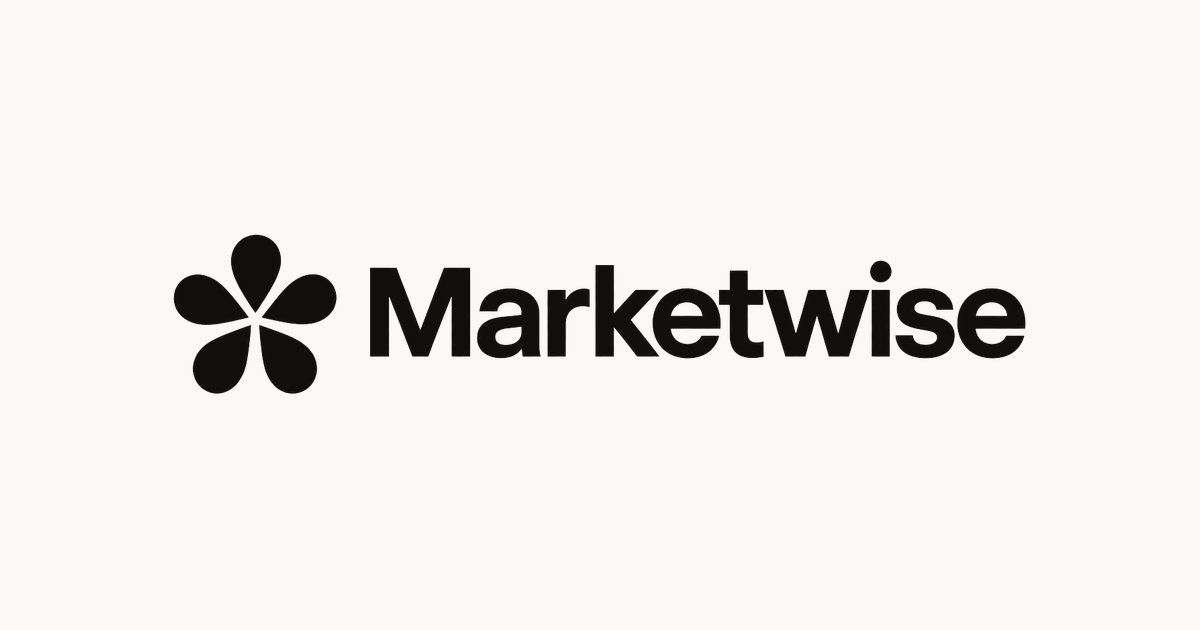
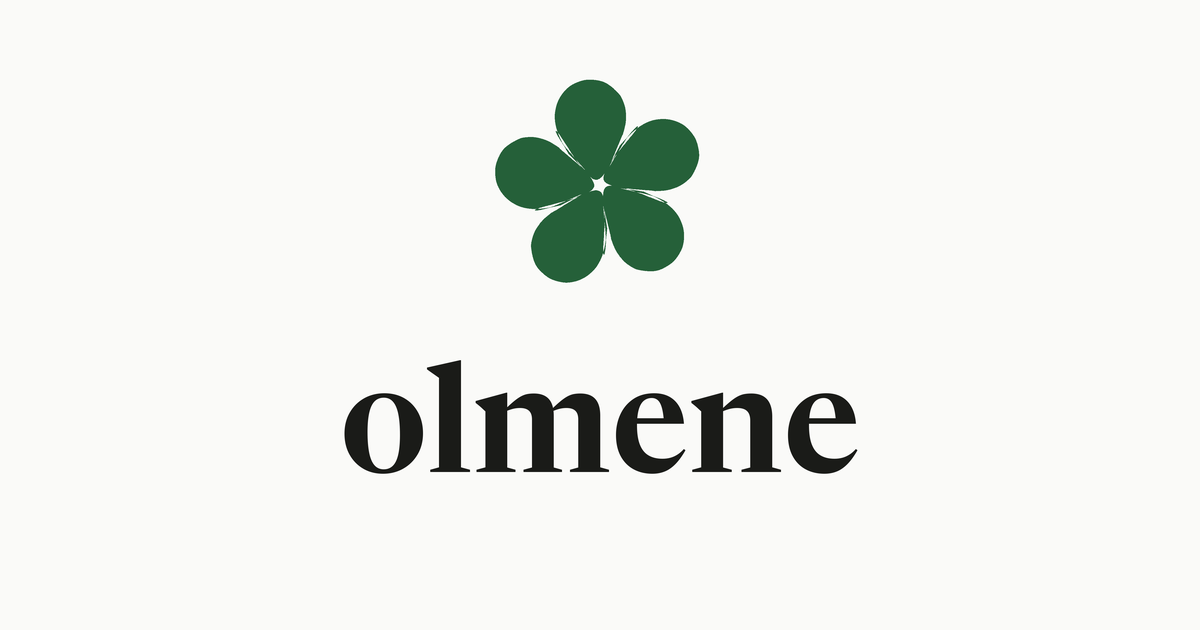
brand: elm-green identity, real proof strip, EUR pricing
- design tokens: Claude terracotta → deep elm green (light #256039 on oat
  7.1:1, dark leaf #69C27E 6.7:1 — both AA with margin); severity rust
  decoupled from brand accent so 'high severity' never reads as 'pass'
- logo: inline SVG five-petal mark + lowercase Newsreader wordmark —
  replaces the raster logo that still read 'Marketwise' on the live site;
  mark now themes with currentColor, zero image requests
- regenerated brand rasters via scripts/brand-assets.py (petal path →
  polygon, Newsreader VF): JSON-LD logo, OG card, favicons
- landing: proof strip with real production numbers (73 free diagnoses,
  198 cited sources, 18 checks, 15 languages) — i18n keys added to all
  15 dictionaries with exact order parity
- pricing: $ → € price labels via migration 20261001 (Polar charges EUR);
  verified live incl. per-report math

Changed region(s): [[0.2775, 0.1206, 0.8633, 0.754], [0.1233, 0.3619, 0.2775, 0.6333]]

diff --git a/src/app/globals.css b/src/app/globals.css
@@ -181,7 +181,7 @@
 
 /* ─────────────────────────────────────────────────────────────────────────
    Olmene design system — "Warm craft" (Claude-inspired)
-   Oat surfaces, terracotta accent, soft serif display, calm hierarchy.
+   Oat surfaces, deep elm-green accent, soft serif display, calm hierarchy.
    ───────────────────────────────────────────────────────────────────────── */
 
 :root {
@@ -195,10 +195,11 @@
   --popover: oklch(1 0 0);
   --popover-foreground: oklch(0.245 0.005 90);
 
-  /* Accent — Claude terracotta, deepened for WCAG AA: as text on oat 5.3:1,
-     with white text 5.6:1 (was #D97757 — 2.7:1). Dark mode keeps the lighter
-     terracotta for text/borders; buttons switch to ink-on-terracotta. */
-  --primary: oklch(0.53 0.125 45);           /* #A55026 rust terracotta */
+  /* Accent — deep elm green (olm, the elm tree the name comes from),
+     WCAG AA with margin: as text on oat 7.1:1, white text on it 7.4:1.
+     Dark mode keeps the lighter leaf green for text/borders; buttons
+     switch to ink-on-leaf (6.9:1). */
+  --primary: oklch(0.44 0.09 152);           /* #256039 deep elm */
   --primary-foreground: oklch(0.995 0.002 106);
 
   /* Secondary surfaces — oat-200 */
@@ -207,16 +208,16 @@
   --muted: oklch(0.943 0.006 100);
   --muted-foreground: oklch(0.516 0.006 90); /* #6E6D6A warm gray */
 
-  /* Hover tint — soft clay */
-  --accent: oklch(0.938 0.014 78);
-  --accent-foreground: oklch(0.40 0.07 50);
+  /* Hover tint — soft sage wash */
+  --accent: oklch(0.93 0.025 150);           /* #DDEDDF */
+  --accent-foreground: oklch(0.40 0.07 152);
 
   --destructive: oklch(0.577 0.199 25);
   --border: oklch(0.913 0.009 95);           /* #E6E3DA */
   --input: oklch(0.913 0.009 95);
-  --ring: oklch(0.53 0.125 45);
+  --ring: oklch(0.44 0.09 152);
 
-  --chart-1: oklch(0.53 0.125 45);          /* terracotta */
+  --chart-1: oklch(0.44 0.09 152);          /* elm */
   --chart-2: oklch(0.68 0.115 75);           /* ochre */
   --chart-3: oklch(0.55 0.095 150);          /* sage */
   --chart-4: oklch(0.45 0.02 90);            /* warm charcoal */
@@ -224,19 +225,21 @@
 
   --sidebar: oklch(0.943 0.006 100);
   --sidebar-foreground: oklch(0.245 0.005 90);
-  --sidebar-primary: oklch(0.53 0.125 45);
+  --sidebar-primary: oklch(0.44 0.09 152);
   --sidebar-primary-foreground: oklch(0.995 0.002 106);
   --sidebar-accent: oklch(0.913 0.012 90);
-  --sidebar-accent-foreground: oklch(0.30 0.05 50);
+  --sidebar-accent-foreground: oklch(0.30 0.06 152);
   --sidebar-border: oklch(0.913 0.009 95);
-  --sidebar-ring: oklch(0.699 0.127 45);
+  --sidebar-ring: oklch(0.74 0.13 150);
 
   /* Score semantics — warm family: sage / ochre / terracotta-red.
      Light-mode good/mid darkened to clear WCAG AA as text (4.8-5.3:1 on oat). */
   --score-good: oklch(0.52 0.09 150);
   --score-mid: oklch(0.53 0.1 75);
   --score-bad: oklch(0.56 0.16 30);
-  --fg-clay: oklch(0.50 0.12 45);
+  /* Severity-only rust — deliberately NOT the green brand accent, so a
+     "high severity" badge never reads as "pass". */
+  --fg-rust: oklch(0.50 0.12 45);
 }
 
 .dark {
@@ -247,9 +250,9 @@
   --popover: oklch(0.335 0.004 100);
   --popover-foreground: oklch(0.972 0.004 106);
 
-  --primary: oklch(0.699 0.127 45);
-  /* Ink-on-terracotta in dark mode: white on #D97757 is 3.1:1 — fails AA.
-     Warm near-black text on the terracotta button passes at 5.2:1. */
+  --primary: oklch(0.74 0.13 150);           /* #69C27E fresh leaf */
+  /* Ink-on-leaf in dark mode: white on the leaf green is only ~2.4:1 —
+     fails AA. Warm near-black text on the leaf button passes at 6.9:1. */
   --primary-foreground: oklch(0.245 0.005 90);
 
   --secondary: oklch(0.36 0.003 100);        /* #343432 */
@@ -257,15 +260,15 @@
   --muted: oklch(0.36 0.003 100);
   --muted-foreground: oklch(0.72 0.005 95);  /* #A3A29C */
 
-  --accent: oklch(0.40 0.04 55);
-  --accent-foreground: oklch(0.90 0.06 55);
+  --accent: oklch(0.38 0.05 150);
+  --accent-foreground: oklch(0.85 0.08 150);
 
   --destructive: oklch(0.704 0.191 22);
   --border: oklch(1 0 0 / 10%);
   --input: oklch(1 0 0 / 14%);
-  --ring: oklch(0.699 0.127 45);
+  --ring: oklch(0.74 0.13 150);
 
-  --chart-1: oklch(0.699 0.127 45);
+  --chart-1: oklch(0.74 0.13 150);
   --chart-2: oklch(0.82 0.10 80);
   --chart-3: oklch(0.76 0.10 148);
   --chart-4: oklch(0.62 0.01 90);
@@ -273,17 +276,17 @@
 
   --sidebar: oklch(0.25 0.003 95);           /* #1F1E1D */
   --sidebar-foreground: oklch(0.972 0.004 106);
-  --sidebar-primary: oklch(0.699 0.127 45);
+  --sidebar-primary: oklch(0.74 0.13 150);
   --sidebar-primary-foreground: oklch(0.245 0.005 90);
-  --sidebar-accent: oklch(0.40 0.04 55);
-  --sidebar-accent-foreground: oklch(0.90 0.06 55);
+  --sidebar-accent: oklch(0.38 0.05 150);
+  --sidebar-accent-foreground: oklch(0.85 0.08 150);
   --sidebar-border: oklch(1 0 0 / 10%);
-  --sidebar-ring: oklch(0.699 0.127 45);
+  --sidebar-ring: oklch(0.74 0.13 150);
 
   --score-good: oklch(0.76 0.10 148);
   --score-mid: oklch(0.82 0.10 80);
   --score-bad: oklch(0.72 0.15 30);
-  --fg-clay: oklch(0.85 0.10 45);
+  --fg-rust: oklch(0.85 0.10 45);
 }
 
 @layer base {
@@ -481,8 +484,8 @@
     color: var(--score-bad);
   }
   .sev-high {
-    background: color-mix(in oklab, var(--primary) 13%, var(--card));
-    color: var(--fg-clay);
+    background: color-mix(in oklab, oklch(0.50 0.12 45) 13%, var(--card));
+    color: var(--fg-rust);
   }
   .sev-medium {
     background: color-mix(in oklab, var(--score-mid) 15%, var(--card));
@@ -512,7 +515,7 @@
   }
   .status-running {
     background: color-mix(in oklab, var(--primary) 13%, var(--card));
-    color: var(--fg-clay);
+    color: var(--accent-foreground);
   }
   .status-completed {
     background: var(--score-good);

diff --git a/src/app/page.tsx b/src/app/page.tsx
@@ -26,6 +26,7 @@ import { Card, CardContent, CardDescription, CardHeader, CardTitle } from "@/com
 import { Accordion, AccordionContent, AccordionItem, AccordionTrigger } from "@/components/ui/accordion";
 import { SiteHeader } from "@/components/site-header";
 import { SiteFooter } from "@/components/site-footer";
+import { BrandMark } from "@/components/brand-mark";
 import { FreeAuditForm } from "@/components/free-audit-form";
 import { PricingTeaser } from "@/components/pricing-cards";
 import { DemoVideo } from "@/components/demo-video";
@@ -41,6 +42,17 @@ const TEARDOWN_BEFORE = {
   checksB: 18,
 };
 const TEARDOWN_AFTER = { readiness: 98, checksA: 18, checksB: 18 }; // measured 2026-09-25 after deploy (the teardown copy itself lifted conversion 90→94)
+
+// Proof strip — real, all-time numbers from the production database
+// (free_audits / reports row counts; 18 = the deterministic checklist the
+// free audit actually runs today, verified live 2026-10-01; 15 languages).
+// Refresh periodically (or wire to the DB) as usage grows; never inflate.
+const STATS = [
+  { value: "73", label: "stats.audits" },
+  { value: "198", label: "stats.sources" },
+  { value: "18", label: "stats.checks" },
+  { value: "15", label: "stats.languages" },
+] as const;
 
 export default function HomePage() {
   const { t } = useI18n();
@@ -118,6 +130,18 @@ export default function HomePage() {
             <div className="hero-in" style={{ animationDelay: "0.35s" }}>
               <PricingTeaser />
             </div>
+          </div>
+        </section>
+
+        {/* ── Proof strip: the instrument, in real numbers ── */}
+        <section aria-label={t("stats.label")} className="border-y border-border/60 bg-secondary/30">
+          <div className="mx-auto grid w-full max-w-6xl grid-cols-2 gap-y-8 px-4 py-10 sm:px-6 md:grid-cols-4 md:py-12">
+            {STATS.map((s) => (
+              <div key={s.label} className="text-center">
+                <p className="font-display text-4xl font-bold text-primary tabular-nums md:text-5xl">{s.value}</p>
+                <p className="mx-auto mt-2 max-w-[16ch] text-sm leading-snug text-muted-foreground">{t(s.label)}</p>
+              </div>
+            ))}
           </div>
         </section>
 
@@ -522,7 +546,7 @@ export default function HomePage() {
             <Reveal delay={0.12}>
               <div className="overflow-hidden rounded-xl border bg-card shadow-lg">
               <div className="flex items-center gap-2 border-b bg-secondary/40 px-4 py-2.5">
-                <img src="/img/logo-mark-42.webp" alt="Olmene" width={42} height={42} className="size-3.5" aria-hidden />
+                <BrandMark size={14} className="text-primary" />
                 <span className="font-mono text-xs text-muted-foreground">{t("rt.previewLabel")}</span>
               </div>
               <div className="space-y-4 p-6">

diff --git a/src/components/animated-flower.tsx b/src/components/animated-flower.tsx
@@ -11,11 +11,11 @@ import { cn } from "@/lib/utils";
  *   petal-bloom — each petal fans out ~9deg and eases back, phase-staggered
  *   flower-drift — the whole flower rotates once every ~30s
  *   logo-breathe — subtle scale swell on the container (shared brand pulse)
- *   logo-glow    — optional soft terracotta halo
+ *   logo-glow    — optional soft sage halo
  */
 
 /** One petal of the mark, traced from the official logo bitmap. */
-const PETAL_D =
+export const PETAL_D =
   "M-64.4 -63.9 C-67.3 -69.0 -77.2 -85.4 -81.4 -94.4 C-85.6 -103.5 -87.9 -110.7 -89.8 -118.1 C-91.7 -125.5 -92.6 -132.5 -92.8 -138.9 C-93.0 -145.2 -92.3 -150.4 -91.1 -156.2 C-89.9 -162.0 -88.2 -168.0 -85.6 -173.5 C-83.0 -179.1 -79.7 -184.6 -75.7 -189.6 C-71.6 -194.6 -66.8 -199.6 -61.2 -203.5 C-55.7 -207.3 -48.6 -210.5 -42.3 -212.7 C-36.0 -214.8 -30.9 -216.2 -23.7 -216.4 C-16.5 -216.6 -6.2 -215.7 0.9 -213.8 C8.0 -212.0 12.8 -209.5 18.9 -205.3 C25.0 -201.1 33.0 -193.7 37.5 -188.6 C42.1 -183.6 43.6 -180.7 46.1 -175.0 C48.6 -169.3 51.3 -162.1 52.4 -154.3 C53.5 -146.6 53.6 -137.2 52.7 -128.8 C51.8 -120.4 47.9 -108.3 46.9 -104.2 L46.9 -104.2 C37.7 -88.6 14.1 -10.1 -8.2 -10.7 C-30.4 -11.3 -75.3 -95.7 -86.5 -107.8 C-97.7 -119.8 -84.7 -95.8 -75.2 -82.8 C-65.7 -69.8 -31.4 -33.0 -29.6 -29.8 C-27.8 -26.7 -58.6 -58.2 -64.4 -63.9 Z";
 
 const PETALS = [0, 1, 2, 3, 4] as const;

diff --git a/src/components/logo.tsx b/src/components/logo.tsx
@@ -1,24 +1,22 @@
 import Link from "next/link";
 import { APP_NAME } from "@/lib/config";
+import { BrandMark } from "@/components/brand-mark";
 
 export function Logo({ className }: { className?: string }) {
   return (
     <Link
       href="/"
-      className={`flex items-center gap-2 ${className ?? ""}`}
+      className={`flex items-center gap-2 text-foreground ${className ?? ""}`}
       aria-label={`${APP_NAME} home`}
     >
-      {/* Full brand lockup — flower mark + Olmene wordmark.
-          Black on light; inverted to warm cream in dark mode.
-          480x96 WebP (9KB) serves the h-8 display up to 3x DPR — the old
-          1280x257 PNG was 68KB for the same 159x32 box. */}
-      <img
-        src="/img/logo-full-480.webp"
-        alt={APP_NAME}
-        width={480}
-        height={96}
-        className="h-8 w-auto dark:invert"
-      />
+      {/* Brand lockup — elm flower mark + lowercase serif wordmark.
+          Inline SVG + live text: crisp at any DPR, themes with the site,
+          no image request. The old 480x96 WebP (which still read
+          "Marketwise") only remains as the JSON-LD/OG asset. */}
+      <BrandMark size={26} className="text-primary" />
+      <span className="font-display text-[1.4rem] font-semibold leading-none tracking-tight">
+        olmene
+      </span>
     </Link>
   );
 }

diff --git a/src/components/brand-mark.tsx b/src/components/brand-mark.tsx
@@ -1,0 +1,27 @@
+import { PETAL_D } from "@/components/animated-flower";
+
+/**
+ * BrandMark — the static five-petal elm flower, no motion.
+ *
+ * Inline SVG (not a raster) so it stays crisp at any size, inherits
+ * `currentColor`, and costs zero image requests. Use `text-primary` /
+ * `text-foreground` on the element to color it.
+ */
+export function BrandMark({ size = 24, className }: { size?: number; className?: string }) {
+  return (
+    <svg
+      viewBox="-263 -263 526 526"
+      width={size}
+      height={size}
+      className={className}
+      aria-hidden
+      focusable="false"
+    >
+      {[0, 1, 2, 3, 4].map((k) => (
+        <g key={k} transform={`rotate(${k * 72})`}>
+          <path d={PETAL_D} fill="currentColor" />
+        </g>
+      ))}
+    </svg>
+  );
+}

diff --git a/scripts/brand-assets.py b/scripts/brand-assets.py
@@ -1,0 +1,109 @@
+#!/usr/bin/env python3
+"""Regenerate Olmene brand raster assets from the vector petal path.
+
+Outputs (all committed):
+  public/img/logo-full-480.webp   480x96 lockup (JSON-LD logo)
+  src/app/opengraph-image.png     1200x630 social card
+  src/app/icon.png                512x512 flower favicon
+  src/app/apple-icon.png          180x180 apple touch icon
+"""
+import math, re
+from PIL import Image, ImageDraw, ImageFont
+
+PETAL_D = "M-64.4 -63.9 C-67.3 -69.0 -77.2 -85.4 -81.4 -94.4 C-85.6 -103.5 -87.9 -110.7 -89.8 -118.1 C-91.7 -125.5 -92.6 -132.5 -92.8 -138.9 C-93.0 -145.2 -92.3 -150.4 -91.1 -156.2 C-89.9 -162.0 -88.2 -168.0 -85.6 -173.5 C-83.0 -179.1 -79.7 -184.6 -75.7 -189.6 C-71.6 -194.6 -66.8 -199.6 -61.2 -203.5 C-55.7 -207.3 -48.6 -210.5 -42.3 -212.7 C-36.0 -214.8 -30.9 -216.2 -23.7 -216.4 C-16.5 -216.6 -6.2 -215.7 0.9 -213.8 C8.0 -212.0 12.8 -209.5 18.9 -205.3 C25.0 -201.1 33.0 -193.7 37.5 -188.6 C42.1 -183.6 43.6 -180.7 46.1 -175.0 C48.6 -169.3 51.3 -162.1 52.4 -154.3 C53.5 -146.6 53.6 -137.2 52.7 -128.8 C51.8 -120.4 47.9 -108.3 46.9 -104.2 L46.9 -104.2 C37.7 -88.6 14.1 -10.1 -8.2 -10.7 C-30.4 -11.3 -75.3 -95.7 -86.5 -107.8 C-97.7 -119.8 -84.7 -95.8 -75.2 -82.8 C-65.7 -69.8 -31.4 -33.0 -29.6 -29.8 C-27.8 -26.7 -58.6 -58.2 -64.4 -63.9 Z"
+
+INK = (26, 27, 24, 255)          # warm ink on light
+OAT = (250, 250, 248, 255)       # #FAFAF8
+ELM = (37, 96, 57, 255)          # #256039 deep elm
+SS = 4                            # supersample factor for smooth edges
+
+def parse_path(d):
+    """Sample the petal path into a polygon (absolute M/C/L/Z only)."""
+    toks = re.findall(r"([MCLZ])([^MCLZ]*)", d)
+    pts, cur = [], (0.0, 0.0)
+    for cmd, args in toks:
+        nums = [float(x) for x in re.findall(r"-?\d+\.?\d*", args)]
+        if cmd == "M":
+            cur = (nums[0], nums[1]); pts.append(cur)
+        elif cmd == "L":
+            cur = (nums[0], nums[1]); pts.append(cur)
+        elif cmd == "C":
+            for i in range(0, len(nums), 6):
+                p0, p1, p2, p3 = cur, (nums[i], nums[i+1]), (nums[i+2], nums[i+3]), (nums[i+4], nums[i+5])
+                for t in [j/40 for j in range(1, 41)]:
+                    mt = 1 - t
+                    x = mt**3*p0[0] + 3*mt*mt*t*p1[0] + 3*mt*t*t*p2[0] + t**3*p3[0]
+                    y = mt**3*p0[1] + 3*mt*mt*t*p1[1] + 3*mt*t*t*p2[1] + t**3*p3[1]
+                    pts.append((x, y))
+                cur = p3
+    return pts
+
+PETAL = parse_path(PETAL_D)
+
+def flower(draw, cx, cy, r, color):
+    """Draw the five-petal mark centred at (cx, cy) with radius r (supersampled px)."""
+    s = r / 216.0  # petal tip sits ~216 units from centre
+    for k in range(5):
+        a = math.radians(k * 72)
+        ca, sa = math.cos(a), math.sin(a)
+        poly = [((x*ca - y*sa)*s + cx, (x*sa + y*ca)*s + cy) for x, y in PETAL]
+        draw.polygon(poly, fill=color)
+
+def wordmark_font(px):
+    f = ImageFont.truetype("/home/roody/Documents/Olmene/_work/Newsreader-VF.ttf", px)
+    try:
+        axes = f.get_variation_axes()
+        vals = []
+        for ax in axes:
+            name = ax.get("name", b"") if isinstance(ax, dict) else b""
+            name = name.decode() if isinstance(name, bytes) else str(name)
+            if "eight" in name or name.lower() == "wght":
+                vals.append(600)          # SemiBold
+            else:                          # opsz: prefer display sizes
+                vals.append(min(ax.get("maximum", 72), 72))
+        f.set_variation_by_axes(vals)
+    except Exception as e:
+        print("  (variation axes unavailable:", e, ")")
+    return f
+
+def save_webp(img, path, ss=SS):
+    img = img.resize((img.width//ss, img.height//ss), Image.LANCZOS)
+    img.save(path, "WEBP", quality=92, method=6)
+    print("wrote", path, img.size)
+
+# ── 1. logo-full-480.webp ──────────────────────────────────────────────
+W, H = 480*SS, 96*SS
+img = Image.new("RGBA", (W, H), (0, 0, 0, 0))
+d = ImageDraw.Draw(img)
+mark_r = 36*SS
+flower(d, mark_r + 6*SS, H//2, mark_r, INK)
+f = wordmark_font(52*SS)
+bbox = d.textbbox((0, 0), "olmene", font=f)
+tw, th = bbox[2]-bbox[0], bbox[3]-bbox[1]
+tx = 2*mark_r + 24*SS
+ty = H//2 - th//2 - bbox[1]
+d.text((tx, ty), "olmene", font=f, fill=INK)
+save_webp(img, "public/img/logo-full-480.webp")
+
+# ── 2. opengraph-image.png ─────────────────────────────────────────────
+W, H = 1200*SS, 630*SS
+img = Image.new("RGB", (W, H), OAT)
+d = ImageDraw.Draw(img)
+flower(d, W//2, H//2 - 130*SS, 105*SS, ELM)
+f = wordmark_font(150*SS)
+bbox = d.textbbox((0, 0), "olmene", font=f)
+tw = bbox[2]-bbox[0]
+d.text((W//2 - tw/2 - bbox[0], H//2 + 45*SS - bbox[1]), "olmene", font=f, fill=INK)
+img = img.resize((1200, 630), Image.LANCZOS)
+img.save("src/app/opengraph-image.png", "PNG")
+print("wrote src/app/opengraph-image.png (1200, 630)")
+
+# ── 3+4. favicons: elm flower on transparent ──────────────────────────
+for size, path in [(512, "src/app/icon.png"), (180, "src/app/apple-icon.png")]:
+    W = size*SS
+    img = Image.new("RGBA", (W, W), (0, 0, 0, 0))
+    d = ImageDraw.Draw(img)
+    flower(d, W//2, W//2, W*0.40, ELM)
+    img = img.resize((size, size), Image.LANCZOS)
+    img.save(path, "PNG")
+    print("wrote", path, (size, size))
